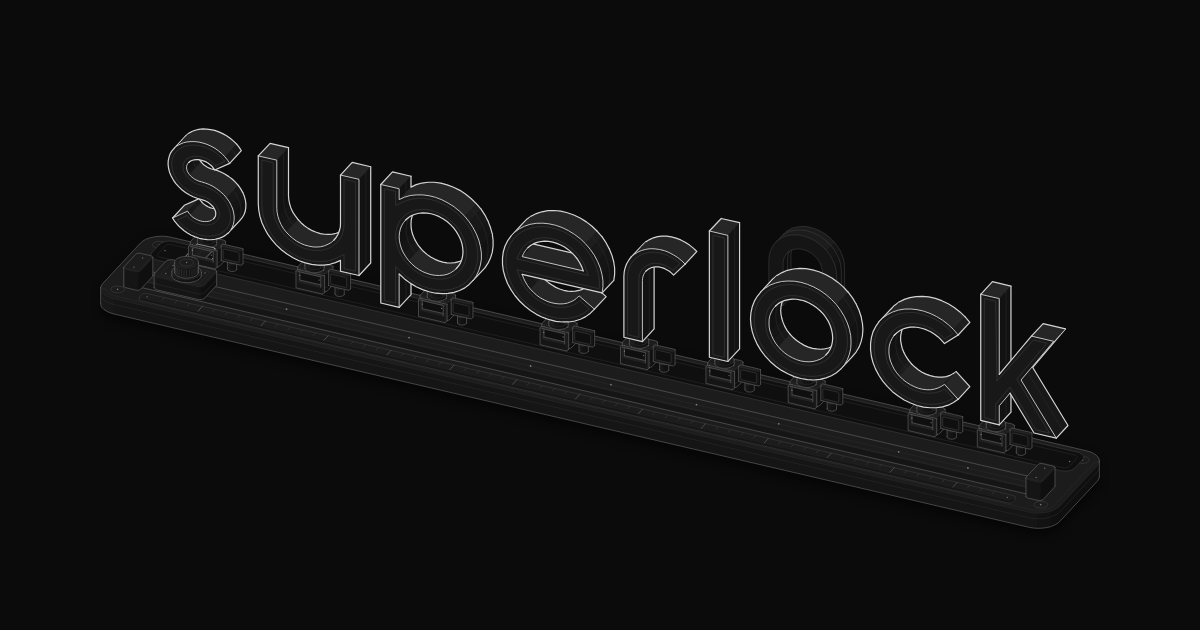
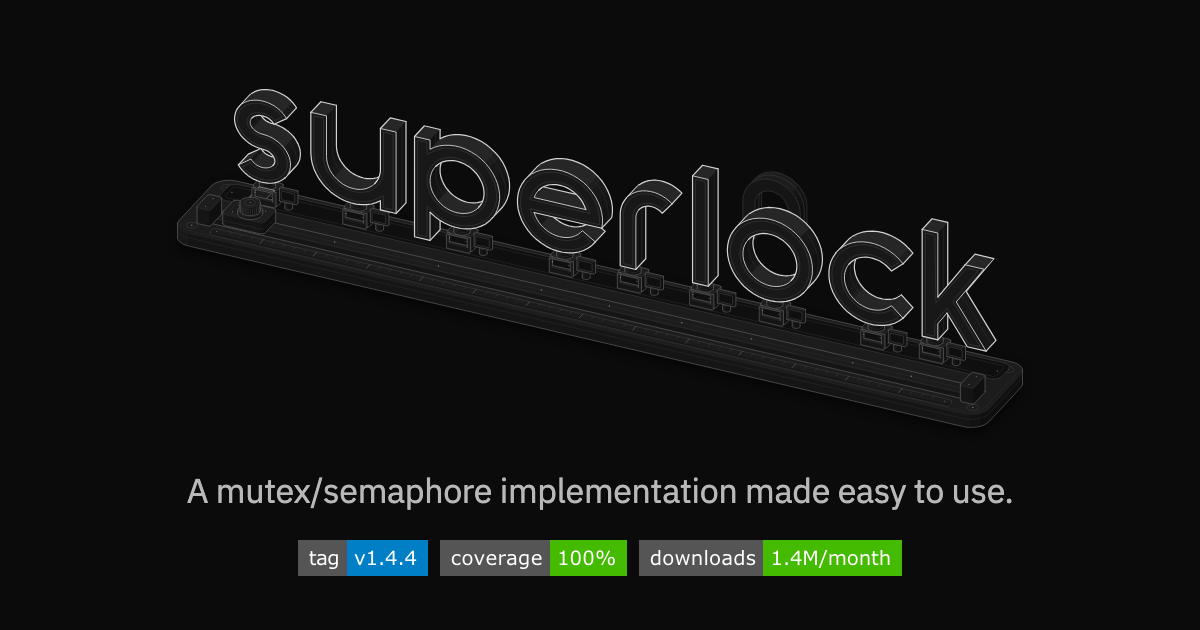
docs: add the tagline and badges to the og:image

Changed region(s): [[0.0925, 0.1206, 0.8942, 0.8143], [0.2467, 0.8444, 0.7708, 0.9349]]

diff --git a/docs/og/banner.html b/docs/og/banner.html
@@ -4,6 +4,9 @@
   <meta charset="utf-8" />
   <meta name="viewport" content="width=1200" />
   <title>superlock banner</title>
+  <link rel="preconnect" href="https://fonts.googleapis.com">
+  <link rel="preconnect" href="https://fonts.gstatic.com" crossorigin>
+  <link href="https://fonts.googleapis.com/css2?family=IBM+Plex+Sans:wght@400&display=block" rel="stylesheet">
   <style>
     html,
     body {
@@ -15,19 +18,46 @@
     }
 
     body {
-      display: grid;
-      place-items: center;
+      display: flex;
+      flex-direction: column;
+      align-items: center;
+      justify-content: center;
+      gap: 28px;
+      font-family: 'IBM Plex Sans', system-ui, sans-serif;
     }
 
     #logo svg {
       display: block;
-      width: 1040px;
+      width: 880px;
       height: auto;
+    }
+
+    .subtitle {
+      margin: 0;
+      color: #b8b8b8;
+      font-size: 34px;
+      letter-spacing: -0.01em;
+    }
+
+    .badges {
+      display: flex;
+      gap: 12px;
+    }
+
+    .badges img {
+      display: block;
+      height: 36px;
     }
   </style>
 </head>
 <body>
   <div id="logo"></div>
+  <p class="subtitle">A mutex/semaphore implementation made easy to use.</p>
+  <div class="badges">
+    <img alt="Last version" src="https://img.shields.io/github/v/tag/Kikobeats/superlock?style=flat-square" />
+    <img alt="Coverage Status" src="https://img.shields.io/coverallsCoverage/github/Kikobeats/superlock?style=flat-square" />
+    <img alt="NPM Status" src="https://img.shields.io/npm/dm/superlock?style=flat-square" />
+  </div>
   <script>
     const FROZEN = '<style>*{animation:none!important}</style>'
 

diff --git a/index.html b/index.html
@@ -26,7 +26,7 @@
   <meta property="og:image:type" content="image/png" />
   <meta property="og:image:width" content="1200" />
   <meta property="og:image:height" content="630" />
-  <meta property="og:image:alt" content="The superlock wordmark: nine isometric letters on a machined plate, served one at a time by a carriage on a rail." />
+  <meta property="og:image:alt" content="The superlock wordmark drawn as nine isometric letters on a machined plate, above the tagline &quot;A mutex/semaphore implementation made easy to use.&quot; and the version, coverage and downloads badges." />
 
   <meta name="twitter:card" content="summary_large_image" />
   <meta name="twitter:site" content="@Kikobeats" />
@@ -34,7 +34,7 @@
   <meta name="twitter:title" content="superlock: minimal async mutex and semaphore for Node.js" />
   <meta name="twitter:description" content="Minimal async mutex and semaphore for serializing critical sections in Node.js." />
   <meta name="twitter:image" content="https://superlock.js.org/static/og.png" />
-  <meta name="twitter:image:alt" content="The superlock wordmark: nine isometric letters on a machined plate, served one at a time by a carriage on a rail." />
+  <meta name="twitter:image:alt" content="The superlock wordmark drawn as nine isometric letters on a machined plate, above the tagline &quot;A mutex/semaphore implementation made easy to use.&quot; and the version, coverage and downloads badges." />
   <meta name="twitter:label1" content="Installation" />
   <meta name="twitter:data1" content="npm install superlock" />
 

diff --git a/docs/anatomy/README.md b/docs/anatomy/README.md
@@ -33,7 +33,7 @@ node docs/anatomy/fair-queue/build.mjs
 node docs/anatomy/wordmark/build.mjs
 ```
 
-The social card at `static/og.png` is a screenshot of `docs/og/banner.html`, which shows the dark wordmark at rest. Rebuild it after the wordmark changes:
+The social card at `static/og.png` is a screenshot of `docs/og/banner.html`, which shows the dark wordmark at rest, the README tagline and the README badges. The badges are fetched from shields.io when the screenshot is taken, so rebuild it after a release as well as after the wordmark changes:
 
 ```sh
 npm run og
